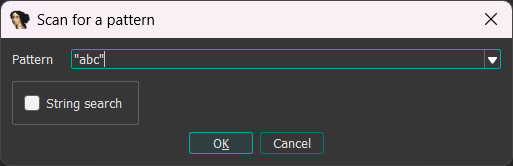
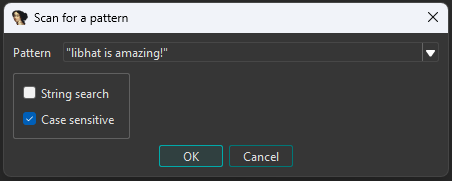
Case-sensitive option for string search

diff --git a/src/libhat_ida.cpp b/src/libhat_ida.cpp
@@ -4,18 +4,42 @@
 
 #include <chrono>
 
-static auto parse_signature(const std::string_view pattern, const bool stringSearch) {
+static std::optional<std::vector<hat::signature>> cased_string_to_signature_impl(const std::string_view& pattern, const bool caseSensitive) {
+    auto signature = hat::string_to_signature(pattern);
+
+    if (!signature.has_value()) {
+        return std::nullopt;
+    }
+
+    if (caseSensitive ) {
+        return std::vector<hat::signature>{signature.value()};
+    }
+
+    for (auto& signatureElement : signature.value() | std::views::drop(1)) { // Skip first element as it is not allowed to have a partial mask!
+        signatureElement = {signatureElement.value(), static_cast<std::byte>(0b11011111)};
+    } // Apply case-insensitive mask on each element
+
+    auto signatureCopy = signature.value(); // Copy to produce new signature with opposite case on first element
+    auto& firstElement = signatureCopy.at(0);
+    firstElement = { firstElement.value() ^ static_cast<std::byte>(0b00100000)}; // Flip case-insensitive bit
+
+    return std::vector{signature.value(), signatureCopy};
+}
+
+static std::optional<std::vector<hat::signature>> parse_signature(const std::string_view pattern, const bool stringSearch, const bool caseSensitive) {
     // Explicit string search
     if (stringSearch) {
-        return hat::string_to_signature(pattern);
+        return cased_string_to_signature_impl(pattern, caseSensitive);
     }
 
     // String search via quotes
     if (pattern.starts_with('"') && pattern.ends_with('"') && pattern.size() >= 2) {
-        return hat::string_to_signature(pattern.substr(1, pattern.size() - 2));
+        return cased_string_to_signature_impl(pattern.substr(1, pattern.size() - 2), caseSensitive);
     }
 
-    return hat::parse_signature(pattern);
+    auto signature = hat::parse_signature(pattern);
+    if (!signature.has_value()) { return std::nullopt; }
+    return std::vector<hat::signature>{signature.value()};
 }
 
 namespace libhat_ida {
@@ -47,7 +71,8 @@ bool plugin::run(size_t arg) {
     auto action = ask_form(
         "Scan for a pattern\n"
         "<Pattern:q:-1:50>\n"
-        "<String search:C>>\n",
+        "<String search:C>\n"
+        "<Case sensitive:C>>\n",
         &pattern,
         &checkboxesBitmask);
 
@@ -60,10 +85,11 @@ bool plugin::run(size_t arg) {
         return false;
     }
 
-    auto signature = parse_signature(
+    auto signatures = parse_signature(
         {pattern.c_str(), pattern.length()},
-        checkboxesBitmask & 1);
-    if (!signature.has_value()) {
+        checkboxesBitmask & 1, checkboxesBitmask & 2);
+
+    if (!signatures.has_value()) {
         msg("Failed to parse pattern!\n");
         return false;
     }
@@ -72,7 +98,13 @@ bool plugin::run(size_t arg) {
     msg("Scanning for %s...\n", pattern.c_str());
 
     auto starttime = std::chrono::high_resolution_clock::now();
-    auto results = hat::find_all_pattern(this->bytes, signature.value(),hat::scan_alignment::X1, this->hints);
+    std::vector<hat::scan_result> results {};
+
+    for (auto& signature : signatures.value()) {
+        auto toJoin = find_all_pattern(this->bytes, signature,hat::scan_alignment::X1, this->hints);
+        results.insert(results.end(), toJoin.begin(), toJoin.end());
+    }
+
     auto endtime = std::chrono::high_resolution_clock::now();
     auto duration = std::chrono::duration_cast<std::chrono::milliseconds>(endtime - starttime);
 

diff --git a/README.md b/README.md
@@ -9,8 +9,8 @@ An [IDA Pro](https://hex-rays.com/ida-pro) pattern scanner plugin powered by [Li
 4. Use default hotkey Alt+B to run libhat-ida or run via Edit -> Plugins -> Libhat
 5. Enter an ida style byte pattern in the libhat-ida GUI and press OK to execute a scan
    ### ![gui](./res/gui.png)
-   Alternatively, check the String search checkbox to perform a (case sensitive) scan of the entered string OR surround
-   your query in double quotes:
+   Alternatively, check the String search checkbox to perform a scan of the entered string OR surround
+   your query in double quotes - with case sensitivity determined by the "Case sensitive" checkbox:
    ### ![gui](./res/gui_string.png)
 6. Once a scan is completed, a dockable IDA Sequence of bytes result style window will be shown, listing all yielded results
    ### ![result](./res/result.png)
